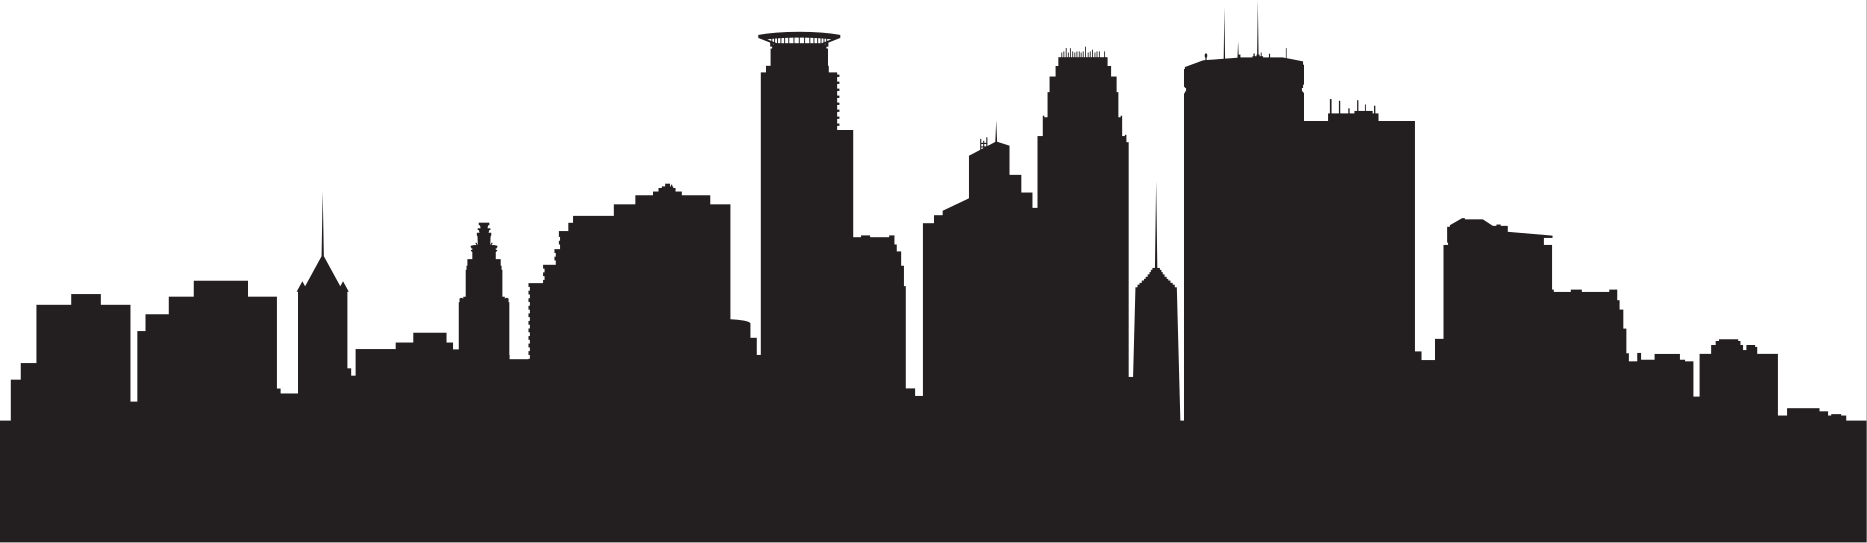
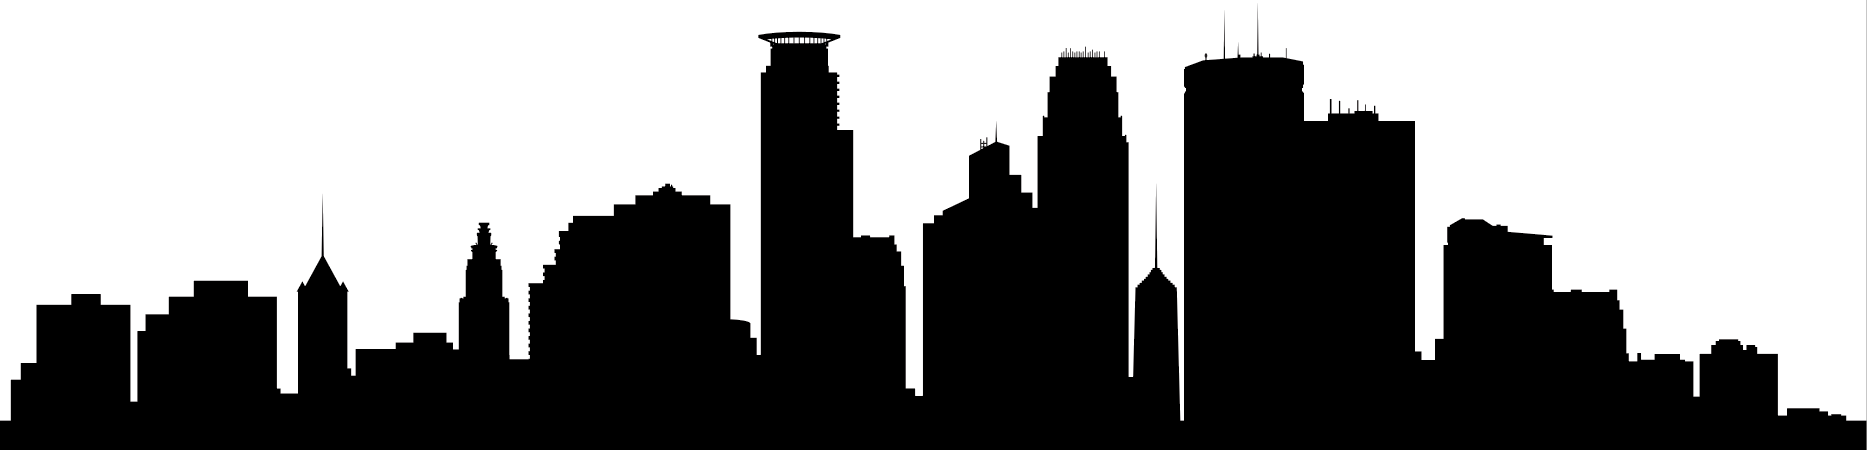
I <3 MPLS

diff --git a/css/style.min.css b/css/style.min.css
@@ -1,1 +1,1 @@
-@charset "UTF-8";@import url(https://fonts.googleapis.com/css?family=Open+Sans:400,300,700,600);.contact>li,.inline-block{display:inline-block}body{font-family:"Open Sans",sans-serif;background:#fff}@keyframes flyin{to{filter:blur(0);transform:scale(1);opacity:1}}*{-webkit-border-radius:0!important;-moz-border-radius:0!important;border-radius:0!important}.absolute-center{position:absolute;top:50%;left:50%;-webkit-transform:translate(-50%,-50%);-ms-transform:translate(-50%,-50%);transform:translate(-50%,-50%)}.vertical-center{position:absolute;top:50%;-webkit-transform:translate(0,-50%);-ms-transform:translate(0,-50%);transform:translate(0,-50%)}.full-height{height:100%}a{color:#000}a:active,a:focus,a:hover{color:#b70000;text-decoration:none}.main-color{color:#b70000}#footer,#footer a,.hero{color:#fff}.contact{padding:0}.contact>li{list-style:none;padding:0 3px 0 5px;border-left:2px solid #b70000}@media screen and (max-width:520px){.contact>li{padding:0 0 0 5px;display:block}.contact>li.first{border-left:2px solid #b70000}}.contact .first{border:0}.feature>div{position:relative;padding:0}.feature>div img{z-index:-1}.feature>div h3{position:absolute;bottom:0;padding:2px 0 0 25px;color:#fff;width:100%;background:rgba(0,0,0,.5)}#header{background:#fff}#header>h1{font-weight:600}.hero{background:url(../img/mode-off.jpg) 50% 50% no-repeat;background-size:cover;background-attachment:fixed;background-position:center}.hero p{animation:flyin 2s ease forwards;opacity:0;transform:scale(2);filter:blur(4px);padding:10%;font-size:1.5em;font-weight:300;text-align:center}.award{display:table-cell;vertical-align:middle}.award h3{font-size:16px}@media screen and (max-width:570px){.award h3{font-size:12px}}.award hr{border:0;height:1px;background:#000;background-image:linear-gradient(to right,#ccc,#333,#ccc)}.award .date{font-size:2em;margin-top:2px}.award .winner{font-size:1.5em;margin-bottom:10px}.award-wrap{display:table;margin-bottom:40px}.laurel{display:inline;max-height:200px;vertical-align:top}blockquote{display:block;padding:40px 20px 15px 70px;margin:0;position:relative;font-size:16px;text-align:justify;border-right:2px solid #b70000;border-left:0}blockquote::before{content:"“";font-size:90px;font-weight:700;color:#999;position:absolute;left:10px;top:0}blockquote::after{content:""}#footer{background:#000;min-height:100px;position:relative;font-weight:300}#footer a:active,#footer a:hover{color:#b70000;text-decoration:none}#footer .contact{float:left;margin-top:40px}@media screen and (max-width:700px){#footer .contact{margin-top:20px;margin-right:20px}#footer .contact>li{padding:0 0 0 5px;display:block}#footer .contact>li.first{border-left:2px solid #b70000}}.footer-logos{min-width:100px;padding:38px 5px 10px 20px;float:right;display:block}@media screen and (max-width:400px){.footer-logos{float:left;padding:0 0 10px}}.footer-logo{fill:#fff;height:25px;width:25px}.modal-header{background:#000;color:#fff}.modal-header .close{color:#fff;opacity:.8}.modal-body p{margin:0 30px 30px;font-size:1.2em}.modal-body a{color:#b70000}.modal-body img.center-block{margin-bottom:30px}.btn-default{background:#b70000;color:#fff}a.accordion-toggle:after{font-family:"Glyphicons Halflings";position:relative;top:5px;content:"";color:#b70000;float:right}a.accordion-toggle.collapsed:after{content:"";color:#000}.panel-heading{padding:0 15px;display:inline-block}.panel-heading h4{margin:5px 0}.panel-body{padding:0 35px;position:relative}.accordion-toggle,.accordion-toggle>.panel-heading{transform-origin:left;transform:rotate(90deg);-webkit-transition:all .2s ease;-moz-transition:all .2s ease;-ms-transition:all .2s ease;-o-transition:all .2s ease;color:#b70000}.accordion-toggle.collapsed,.accordion-toggle.collapsed>.panel-heading{transform:rotate(0);color:inherit}
+@charset "UTF-8";@import url(https://fonts.googleapis.com/css?family=Open+Sans:400,300,700,600);.contact>li,.inline-block{display:inline-block}body{font-family:"Open Sans",sans-serif;background:#fff}@keyframes flyin{to{filter:blur(0);transform:scale(1);opacity:1}}*{-webkit-border-radius:0!important;-moz-border-radius:0!important;border-radius:0!important}.absolute-center{position:absolute;top:50%;left:50%;-webkit-transform:translate(-50%,-50%);-ms-transform:translate(-50%,-50%);transform:translate(-50%,-50%)}.vertical-center{position:absolute;top:50%;-webkit-transform:translate(0,-50%);-ms-transform:translate(0,-50%);transform:translate(0,-50%)}.full-height{height:100%}.flip{-moz-transform:scaleX(-1);-o-transform:scaleX(-1);-webkit-transform:scaleX(-1);transform:scaleX(-1);filter:FlipH;-ms-filter:"FlipH"}a{color:#000}a:active,a:focus,a:hover{color:#b70000;text-decoration:none}.main-color{color:#b70000}#footer,#footer a,.hero{color:#fff}.contact{padding:0}.contact>li{list-style:none;padding:0 3px 0 5px;border-left:2px solid #b70000}@media screen and (max-width:520px){.contact>li{padding:0 0 0 5px;display:block}.contact>li.first{border-left:2px solid #b70000}}.contact .first{border:0}.feature>div{position:relative;padding:0}.feature>div img{z-index:-1}.feature>div h3{position:absolute;bottom:0;padding:2px 0 0 25px;color:#fff;width:100%;background:rgba(0,0,0,.5)}#header{background:#fff}#header>h1{font-weight:600}.hero{background:url(../img/mode-off.jpg) 50% 50% no-repeat;background-size:cover;background-attachment:fixed;background-position:center}.hero p{animation:flyin 2s ease forwards;opacity:0;transform:scale(2);filter:blur(4px);padding:10%;font-size:1.5em;font-weight:300;text-align:center}.award{display:table-cell;vertical-align:middle}.award h3{font-size:16px}@media screen and (max-width:570px){.award h3{font-size:12px}}.award hr{border:0;height:1px;background:#000;background-image:linear-gradient(to right,#ccc,#333,#ccc)}.award .date{font-size:2em;margin-top:2px}.award .winner{font-size:1.5em;margin-bottom:10px}.award-wrap{display:table;margin-bottom:40px}.laurel{display:inline;max-height:200px;vertical-align:top}blockquote{display:block;padding:40px 20px 15px 70px;margin:0;position:relative;font-size:16px;text-align:justify;border-right:2px solid #b70000;border-left:0}blockquote::before{content:"“";font-size:90px;font-weight:700;color:#999;position:absolute;left:10px;top:0}blockquote::after{content:""}#footer{background:#000;min-height:100px;position:relative;font-weight:300}#footer a:active,#footer a:hover{color:#b70000;text-decoration:none}#footer .contact{float:left;margin-top:40px}@media screen and (max-width:700px){#footer .contact{margin-top:20px;margin-right:20px}#footer .contact>li{padding:0 0 0 5px;display:block}#footer .contact>li.first{border-left:2px solid #b70000}}.footer-logos{min-width:100px;padding:38px 5px 10px 20px;float:right;display:block}@media screen and (max-width:400px){.footer-logos{float:left;padding:0 0 10px}}.footer-logo{fill:#fff;height:25px;width:25px}.modal-header{background:#000;color:#fff}.modal-header .close{color:#fff;opacity:.8}.modal-body p{margin:0 30px 30px;font-size:1.2em}.modal-body a{color:#b70000}.modal-body img.center-block{margin-bottom:30px}.btn-default{background:#b70000;color:#fff}a.accordion-toggle:after{font-family:"Glyphicons Halflings";position:relative;top:5px;content:"";color:#b70000;float:right}a.accordion-toggle.collapsed:after{content:"";color:#000}.panel-heading{padding:0 15px;display:inline-block}.panel-heading h4{margin:5px 0}.panel-body{padding:0 35px;position:relative}.accordion-toggle,.accordion-toggle>.panel-heading{transform-origin:left;transform:rotate(90deg);-webkit-transition:all .2s ease;-moz-transition:all .2s ease;-ms-transition:all .2s ease;-o-transition:all .2s ease;color:#b70000}.accordion-toggle.collapsed,.accordion-toggle.collapsed>.panel-heading{transform:rotate(0);color:inherit}

diff --git a/index.html b/index.html
@@ -8,7 +8,8 @@
 	<meta name="description" content="lucasmelchior.com">
 	<meta name="author" content="Lucas Melchior">
 	<link rel="stylesheet" href="css/bootstrap.min.css">
-	<link rel="stylesheet" href="css/style.min.css"> </head>
+	<link rel="stylesheet" href="css/style.min.css">
+</head>
 
 <body>
 	<div class="container">
@@ -140,7 +141,7 @@
 					<h3>MKR</h3></a>
 			</div>
 			<div class="col-xs-6 col-sm-3">
-				<a href="#" data-toggle="modal" data-target="#mecaModal"><img alt="MECA Logo" class="img-responsive" src="img/acf-logo.png">
+				<a href="#" data-toggle="modal" data-target="#mecaModal"><img alt="MECA Logo" class="img-responsive" src="img/acf-mark.png">
 					<h3>MECA</h3></a>
 			</div>
 			<div class="col-xs-6 col-sm-3">
@@ -161,12 +162,13 @@
 			<footer>David Carter, Solutions Architect at Lumi</footer>
 		</blockquote>
 	</div>
+	<img  class="img-responsive" src="img/mpls.png">
 	<div id="footer" class="container-fluid">
 		<div class="container full-height">&nbsp;
 			<ul class="contact text-uppercase inline-block">
 				<li class="first"><span class="main-color">Lucas</span>Melchior</li>
 				<li>+1 612 599 6605</li>
-				<li><a href="mailto:switchboard.op@gmail.com">switchboard.op@gmail.com</a> </li>
+				<li><a href="mailto:switchboard.op@gmail.com">switchboard.op@gmail.com</a></li>
 			</ul>
 			<div class="footer-logos">
 				<ul class="list-unstyled list-inline">
@@ -246,7 +248,7 @@
 			<div class="modal-content">
 				<div class="modal-header">
 					<button type="button" class="close" data-dismiss="modal">&times;</button>
-					<h4 class="modal-title">Minnesota Emerging Composers Award</h4> </div>
+					<h4 class="modal-title">Minnesota Emerging Composers Award</h4></div>
 				<div class="modal-body">
 					<div class="award-wrap center-block"> <img class="img-responsive laurel" src="img/laurel-l.jpg">
 						<div class="award text-center">
@@ -259,9 +261,9 @@
 								<div>American Composers Forum</div>
 								<div class="date">2012</div>
 							</h3> </div> <img class="img-responsive laurel" src="img/laurel-r.jpg"> </div>
+					<a target="_blank" href="https://composersforum.org"><img class="center-block img-responsive" alt="ACF" src="img/acf-logo.png"></a>
 					<p><span class="lead">In 2012 the <a href="https://composersforum.org">American Composers Forum</a> and the <a href="https://www.jeromefdn.org/">Jerome Foundation</a> awarded me the Minnesota Emerging Composer Award (MECA) for my work in electronic music.</span></p>
 					<p>You can find more information about the award <a href="https://composersforum.org/program/minnesota-emerging-composer-award-meca" title="MECA" target="new">here</a>.</p>
-					<a target="_blank" href="https://composersforum.org"><img class="center-block img-responsive" alt="ACF" src="img/acf-logo.png"></a>
 				</div>
 				<div class="modal-footer">
 					<button type="button" class="btn btn-default" data-dismiss="modal">Close</button>

diff --git a/css/style.css b/css/style.css
@@ -22,6 +22,14 @@ body {
   -ms-transform: translate(-50%, -50%);
   transform: translate(-50%, -50%); }
 
+.relative-center {
+  position: relative;
+  top: 50%;
+  left: 50%;
+  -webkit-transform: translate(-50%, -50%);
+  -ms-transform: translate(-50%, -50%);
+  transform: translate(-50%, -50%); }
+
 .vertical-center {
   position: absolute;
   top: 50%;
@@ -34,6 +42,14 @@ body {
 
 .inline-block {
   display: inline-block; }
+
+.flip {
+  -moz-transform: scaleX(-1);
+  -o-transform: scaleX(-1);
+  -webkit-transform: scaleX(-1);
+  transform: scaleX(-1);
+  filter: FlipH;
+  -ms-filter: "FlipH"; }
 
 a {
   color: black; }

diff --git a/style.sass b/style.sass
@@ -55,6 +55,14 @@ body
 .inline-block
 		display: inline-block
 
+.flip
+		-moz-transform: scaleX(-1)
+		-o-transform: scaleX(-1)
+		-webkit-transform: scaleX(-1)
+		transform: scaleX(-1)
+		filter: FlipH
+		-ms-filter: "FlipH"
+
 a
 		color: $black
 		&:hover, &:focus, &:active

diff --git a/todo.md b/todo.md
@@ -2,7 +2,6 @@
 - [ ] build script
 - [ ] add resume
 - [ ] minimize layout
-- [x] fix a tag in skills section
 - [ ] volunteer
 - [ ] sticky header
 - [ ] corner model (low poly)
@@ -16,6 +15,8 @@
 - [x] vertical headings on disclosure
 - [x] include github svg
 - [x] education
+- [x] fix a tag in skills section
+- [x] skyline
 
 # Avatar
 - [x] add LM bust
